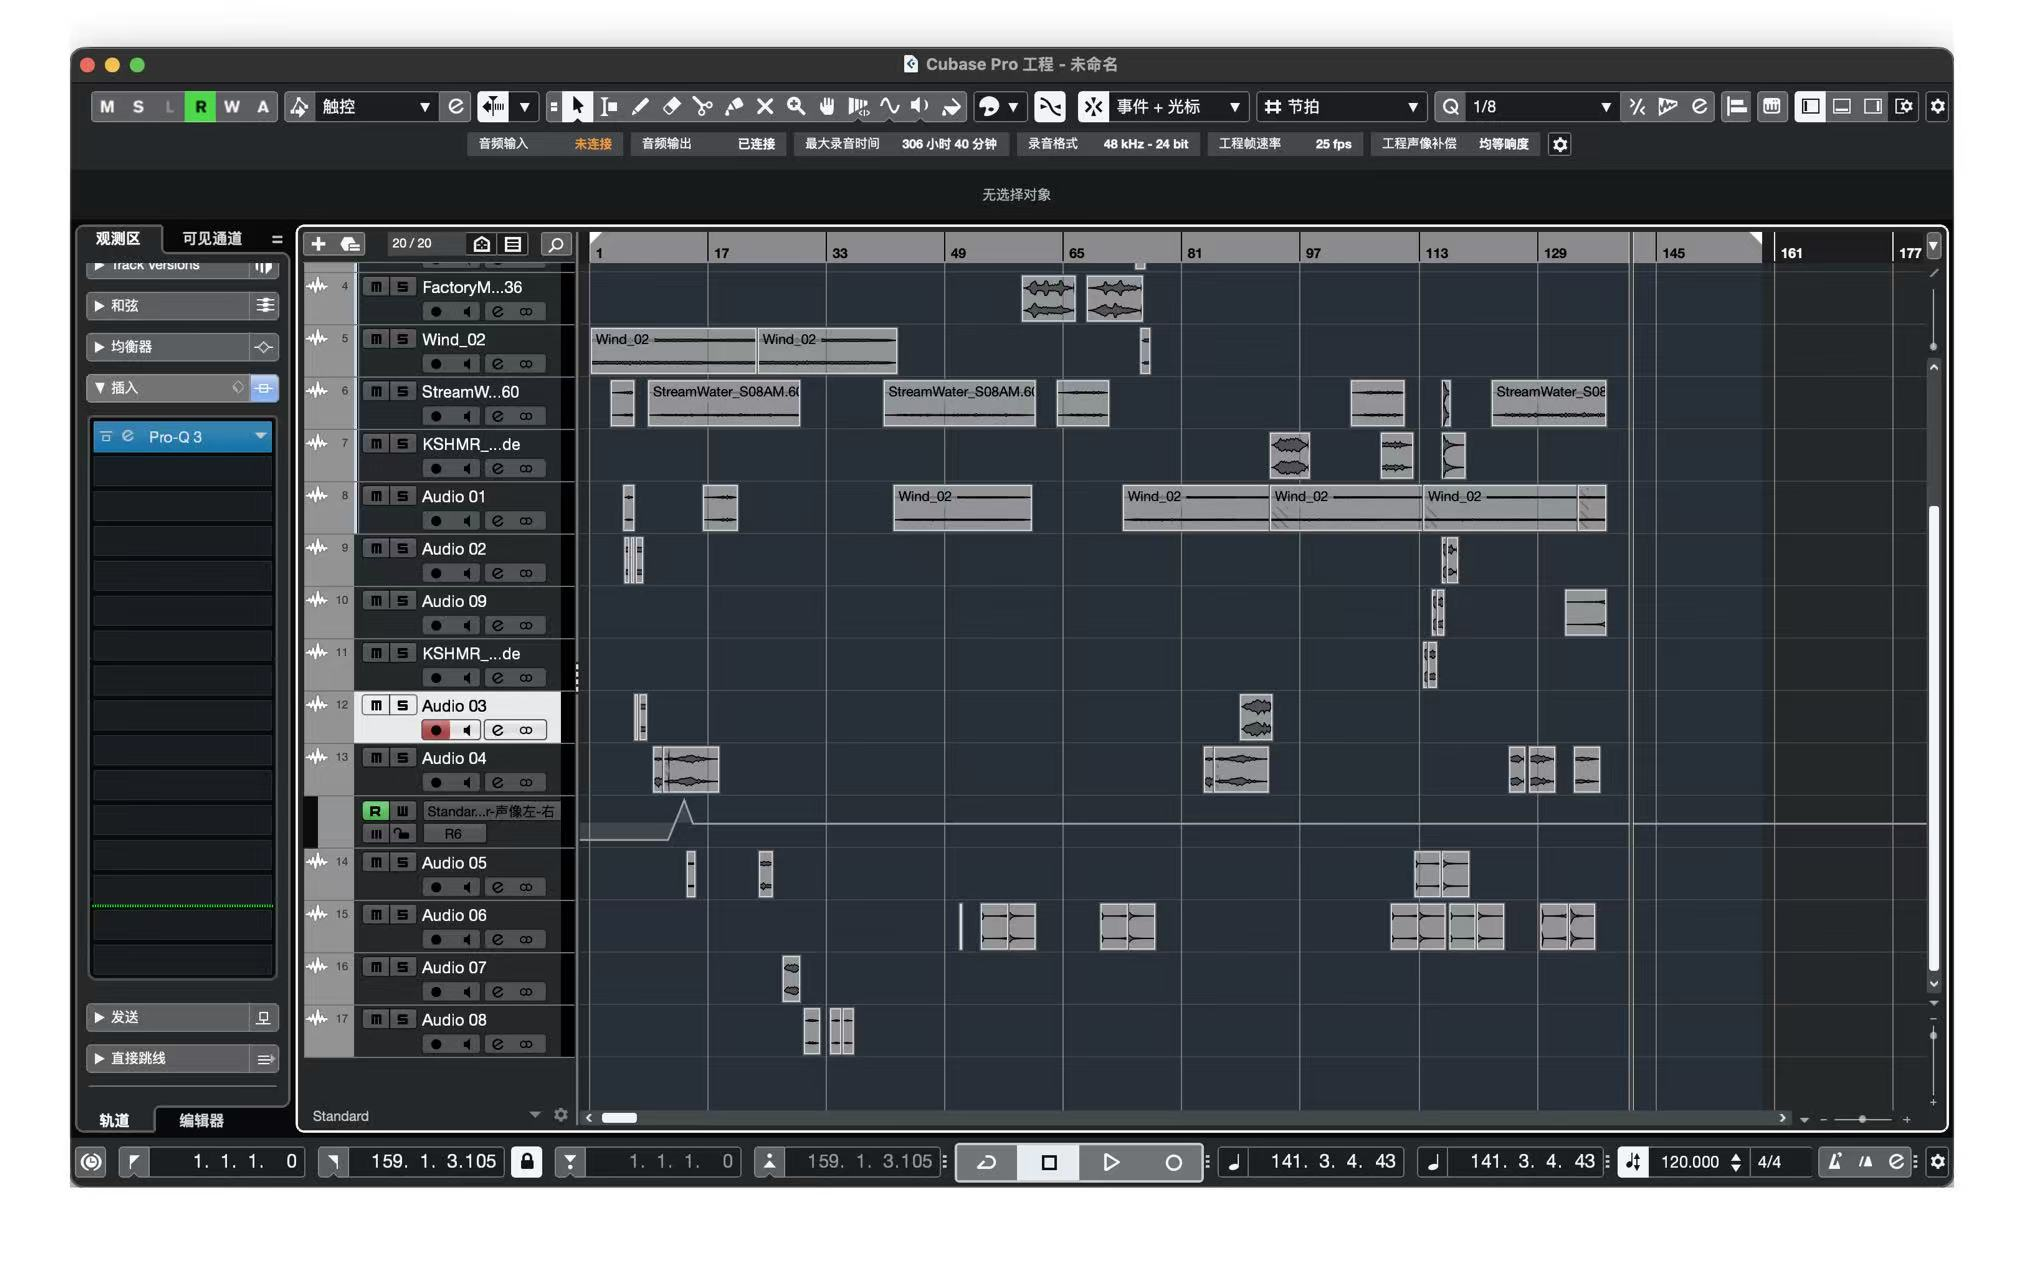
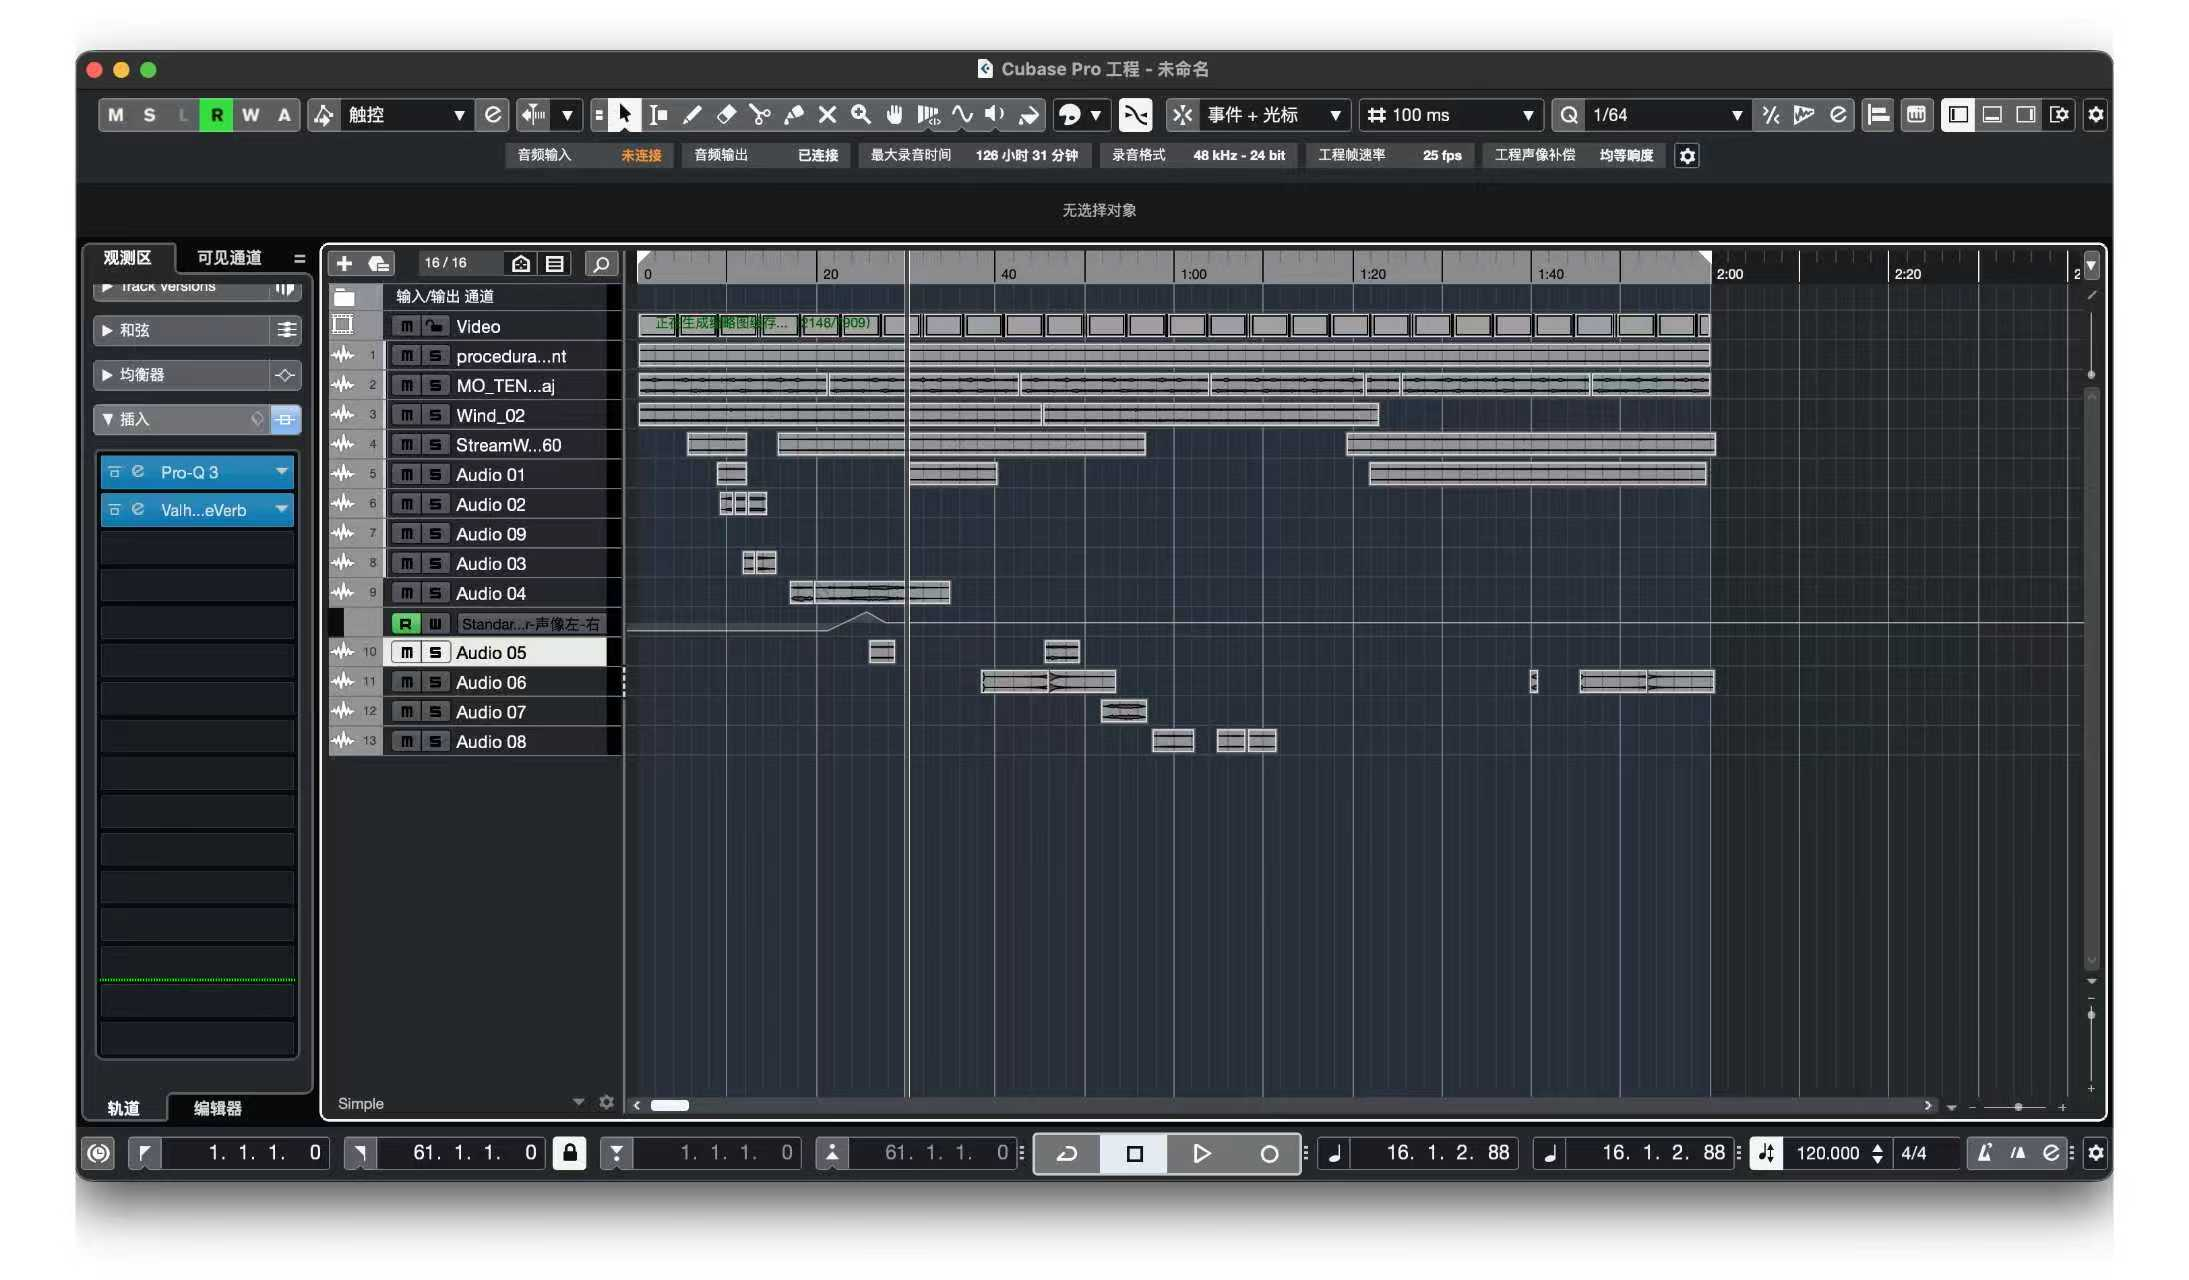
11

diff --git a/index.html b/index.html
@@ -824,7 +824,7 @@
   <p>
     Process screenshot:
   </p>
-  <img src="images/week9-video-review.png" alt="Week 9 review of animation and Procedural Worlds video" width="100%">
+  <img src="week9.jpg" alt="Week 9 review of animation and Procedural Worlds video" width="100%">
 </section>
 
     <footer>